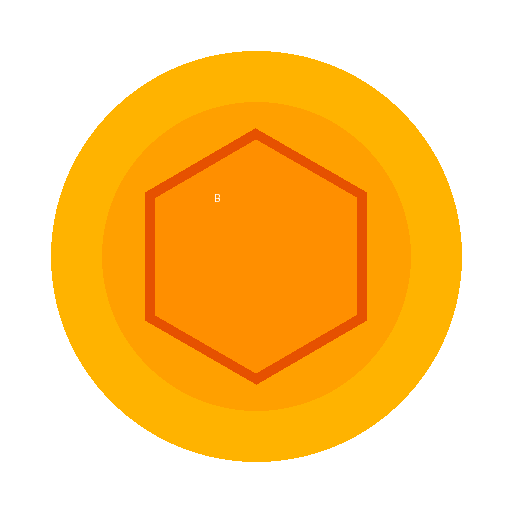
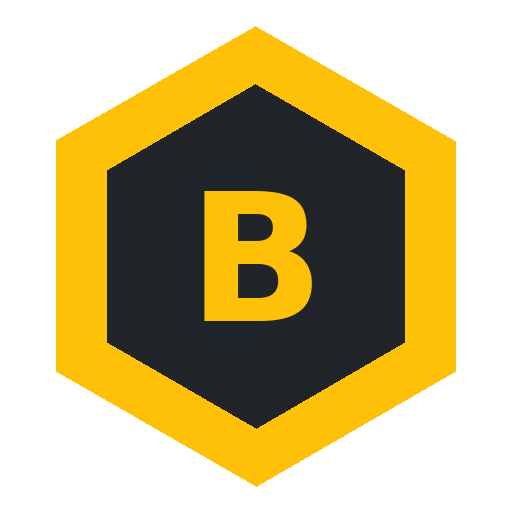
Add cross-platform build with Briefcase and GitHub Actions
- Add GitHub Actions workflow for Linux (.deb), macOS (.dmg), Windows (.msi)
- Include shared module in Briefcase sources for proper packaging
- Generate app icons (hexagonal bee theme, all sizes + ICO)
- Add CHANGELOG.md (required by Briefcase build)
- Bump requires-python to >=3.11 (needed for tomllib)
- Auto-create GitHub Release on version tags (v*)

diff --git a/src/beezdesktop/app.py b/src/beezdesktop/app.py
@@ -155,48 +155,15 @@ class BeezDesktopApp(toga.App):
         """Start background services like consensus listener."""
         if self.state:
             try:
-                import threading
-                
-                def custom_consensus_listener():
-                    import zmq
-                    import time
-                    import json
-                    
-                    print("[CONSENSUS] Starting listener...", flush=True)
-                    
-                    context = zmq.Context.instance()
-                    sub = context.socket(zmq.SUB)
-                    
-                    # Directory consensus ports (internal 5557 -> external)
-                    endpoints = [
-                        "tcp://127.0.0.1:5585",  # Directory1
-                        "tcp://127.0.0.1:5685",  # Directory2
-                        "tcp://127.0.0.1:5745",  # Directory3
-                    ]
-                    for ep in endpoints:
-                        sub.connect(ep)
-                        print(f"[CONSENSUS] Connected to {ep}", flush=True)
-                    
-                    sub.setsockopt_string(zmq.SUBSCRIBE, "consensus")
-                    print("[CONSENSUS] Waiting for network updates...", flush=True)
-                    
-                    while True:
-                        try:
-                            message = sub.recv_string(flags=zmq.NOBLOCK)
-                            _, payload = message.split(" ", 1)
-                            consensus_data = json.loads(payload)
-                            self.state.update_from_consensus(consensus_data)
-                            storage_count = len(self.state.active_nodes)
-                            chain_count = len(self.state.chain_nodes)
-                            print(f"[CONSENSUS] ✓ {storage_count} storage, {chain_count} chain nodes", flush=True)
-                        except zmq.Again:
-                            time.sleep(1)
-                        except Exception as e:
-                            print(f"[CONSENSUS] Error: {e}", flush=True)
-                            time.sleep(1)
-                
-                thread = threading.Thread(target=custom_consensus_listener, daemon=True)
-                thread.start()
+                def on_consensus(data):
+                    storage_count = len(self.state.active_nodes)
+                    chain_count = len(self.state.chain_nodes)
+                    print(f"[CONSENSUS] ✓ {storage_count} storage, {chain_count} chain nodes", flush=True)
+
+                start_consensus_listener(
+                    state=self.state,
+                    callback=on_consensus,
+                )
                 print("[APP] Consensus listener started", flush=True)
                 
             except Exception as e:

diff --git a/CHANGELOG.md b/CHANGELOG.md
@@ -1,0 +1,11 @@
+# Changelog
+
+## 0.1.0 (2026-02-21)
+
+- Initial release
+- Wallet management (create, import, connect)
+- File upload/download with AES-256-GCM encryption
+- Transaction management (send BZT, view history)
+- Network status monitoring
+- Smart RAG indexing and query
+- Ownership transfer with ECDH key wrapping
